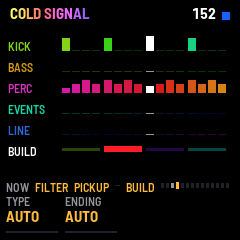
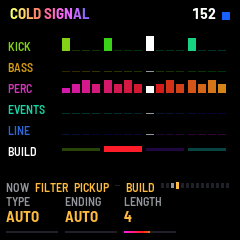
PHASE the breaks (BREAKS, BREAK, GAP), BUILD the builds (TYPE, ENDING, LENGTH: BUILD's bars moved here)

Changed region(s): [[0.4958, 0.8167, 0.6708, 0.9333], [0.525, 0.9625, 0.7292, 0.9917]]

diff --git a/app/app.c b/app/app.c
@@ -14,9 +14,10 @@
  *   1 MAIN (HOME)            the macros: K1..K4 Energy, Detail, Dark, Drift
  *   2 GROOVE (HOME again)    K1..K4 Tempo (the world's, moved), Root, Fills (how often), Sit out (how often a part
  *                            rests a phrase)
- *   3 PHASE (SEQ)            K1..K4 Breaks (how often one comes on its own; 0: only when cued), Break (its bars: the
- *                            world's, 4..32), Build (2, 4, 8 bars), Gap (bars after a drop before one comes on its own)
- *   4 BUILD (SEQ again)      K1 Type (the builds': AUTO, or one held), K2 Ending (their last bar's: AUTO, or one held)
+ *   3 PHASE (SEQ)            the breaks: K1..K3 Breaks (how often one comes on its own; 0: only when cued), Break (its
+ *                            bars: the world's, 4..32), Gap (bars after a drop before one comes on its own)
+ *   4 BUILD (SEQ again)      the builds: K1 Type (AUTO, or one held), K2 Ending (their last bar's: AUTO, or one held),
+ *                            K3 Length (2, 4, 8 bars)
  *   5 KICK (SEL)             K1..K4 Tune, Drive, Punch, Decay (its body: short and tight, or long and full)
  *   6 BASS (SEL again)       K1..K4 Bite, Decay (how fast the bite closes), Length, Drive (as LINE's)
  *   7 PERC (ENV)             K1..K4 Hats, Open (the open hat's length), Clap, Tone (all of it brighter, darker)
@@ -183,8 +184,8 @@ static int page_par(int p, int k)
     static const int8_t PAR[NPAGE][4] = {
         {P_ENERGY, P_DETAIL, P_DARK, P_DRIFT},
         {P_TEMPO, P_ROOT, P_FILLS, P_SITOUT},
-        {P_BREAKS, P_BREAK_LEN, P_BUILD_LEN, P_GAP},
-        {-1, -1, -1, -1},                                /* BUILD: K1 the builds' type, K2 their ending */
+        {P_BREAKS, P_BREAK_LEN, P_GAP, -1},              /* PHASE: the breaks */
+        {-1, -1, P_BUILD_LEN, -1},                       /* BUILD: K1 the builds' type, K2 their ending, K3 their bars */
         {P_KICK_TUNE, P_KICK_DRIVE, P_KICK_PUNCH, P_KICK_DECAY},   /* (the levels and the sends: MIX's) */
         {P_BASS_BITE, P_BASS_DECAY, P_BASS_LEN, P_BASS_DRIVE},   /* (as LINE's) */
         {P_HATS, P_PERC_OPEN, P_CLAP, P_HAT_TONE},   /* (TONE: all of it, the clap's too) */
@@ -347,7 +348,7 @@ static const char *knob_name(int page, int k)
     if (page == PG_GLOBAL)
         return k == 0 ? "LIGHTS" : k == 1 ? "THEME" : k == 2 ? "CPU" : "MIDI IN";
     if (page == PG_BUILD)
-        return k == 0 ? "TYPE" : k == 1 ? "ENDING" : "";
+        return k == 0 ? "TYPE" : k == 1 ? "ENDING" : k == 2 ? "LENGTH" : "";
     if (page == PG_MIX)
         return k == 0 ? "TRACK" : k == 1 ? "LEVEL" : k == 2 ? (TRACK_SEND[mix_track % NTRACK] < 0 ? "" : "SEND")
              : "MUTE";                   /* (no send: no SEND) */
@@ -458,7 +459,7 @@ static void knob_turn(int k, int32_t d)
                 midi_off();
         } else
             return;
-    } else if (page == PG_BUILD) {       /* the builds' type (K1), their ending (K2): AUTO at the left */
+    } else if (page == PG_BUILD && k < 2) {   /* the builds' type (K1), their ending (K2): AUTO at the left */
         int32_t c;
         if (k == 0) {
             c = clamp(ps_build_kind_now() + d, 0, PS_NBUILD - 1);
@@ -470,8 +471,7 @@ static void knob_turn(int k, int32_t d)
             if (c == ps_build_end_now())
                 return;
             ps_build_end((int)c);
-        } else
-            return;
+        }
         knob_value(page, k, t, &pos, &span);
         app_say(knob_name(page, k), t);
         return;

diff --git a/app/docs/MANUAL.md b/app/docs/MANUAL.md
@@ -156,7 +156,8 @@ world is as it is.
   the middle, brings in harsher notes and lets the line creep and reach higher. Lower is lighter and more open. 50.
 - DRIFT: how much changes by itself. Higher redraws more of the one-shot sounds at each phrase, lets the bass open and
   close further, rewrites more of the line, lets breaks come on their own more often (see 8. Sections), lets FILLS,
-  BUILD, BREAK and GAP stray more often from their lengths to the next one down or up (see GROOVE and PHASE). At 0 nothing
+  BREAK, GAP and a build's LENGTH stray more often from their lengths to the next one down or up (see GROOVE, PHASE and
+  BUILD). At 0 nothing
   moves by itself, no break comes on its own, and those lengths are exact; higher, the bass changes its type at more
   of the drops. 50.
 
@@ -187,23 +188,21 @@ K-B-B-B holds the roll; GALLOP holds a gallop; OFFBEAT holds an offbeat. The new
 
 ### 5.3 PHASE
 
-![The PHASE page: Breaks 50, Break WORLD, Build 4, Gap 64](img/screen-phase.png "PHASE")
+![The PHASE page: Breaks 50, Break WORLD, Gap 64](img/screen-phase.png "PHASE")
 
-SEQ. How the music moves through breaks, builds and drops by itself. Press SAVE and ARP to call them yourself (see 8.
+SEQ. The breaks: how the music moves through breaks, builds and drops by itself. Press SAVE and ARP to call them yourself (see 8.
 Sections).
 
 - BREAKS: how often a break comes on its own. At 0 it says CUED: a break comes only when you call it. Higher is more
   often, and DRIFT scales it. 50.
 - BREAK: how long a break that comes on its own usually lasts. WORLD leaves it to the world; or 4, 8, 16 or 32 bars.
   Now and then a break is half or twice as long, more often with DRIFT higher. WORLD.
-- BUILD: how long a build usually lasts: 2, 4 or 8 bars. Now and then a build is one step longer, and more rarely one
-  step shorter, both more often with DRIFT higher. 4.
 - GAP: the fewest bars between a drop and the next break that comes on its own: 32, 64, 96 or 128. After some drops it
   is one step shorter or longer, more often with DRIFT higher. 64.
 
 ### 5.4 BUILD
 
-![The BUILD page: Type AUTO, Ending AUTO](img/screen-buildpage.png "BUILD")
+![The BUILD page: Type AUTO, Ending AUTO, Length 4](img/screen-buildpage.png "BUILD")
 
 SEQ again. What kind of build comes, and how it ends. Every build has its riser.
 
@@ -211,6 +210,8 @@ SEQ again. What kind of build comes, and how it ends. Every build has its riser.
   one twice running. AUTO.
 - ENDING: what happens in the build's last bar (in FAKE, the bar before its short drop). AUTO chooses one of the others
   each time, never the same one twice running. AUTO.
+- LENGTH: how long a build usually lasts: 2, 4 or 8 bars. Now and then a build is one step longer, and more rarely one
+  step shorter, both more often with DRIFT higher. 4.
 
 While a build plays, the left of the rule says `NOW` and the type and ending it is playing, so you can tell what AUTO
 chose.
